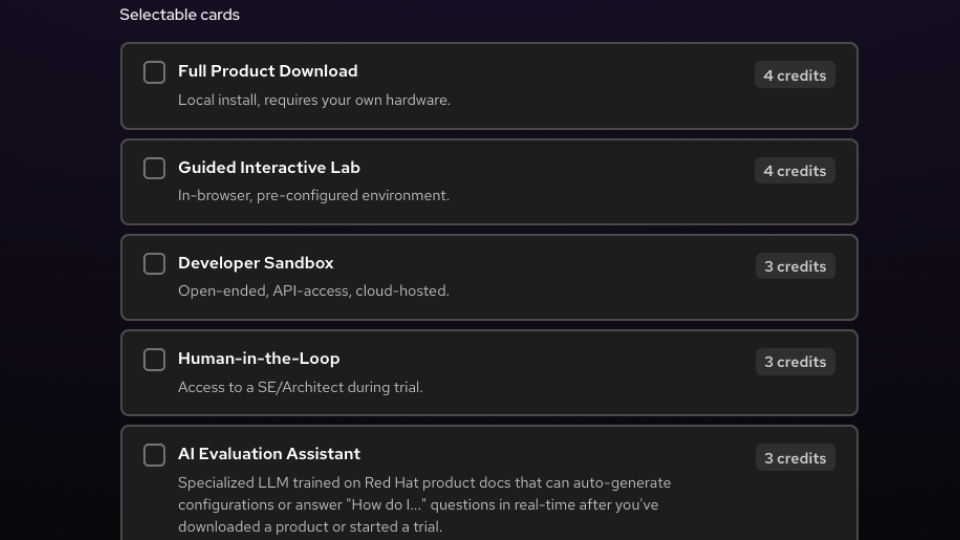
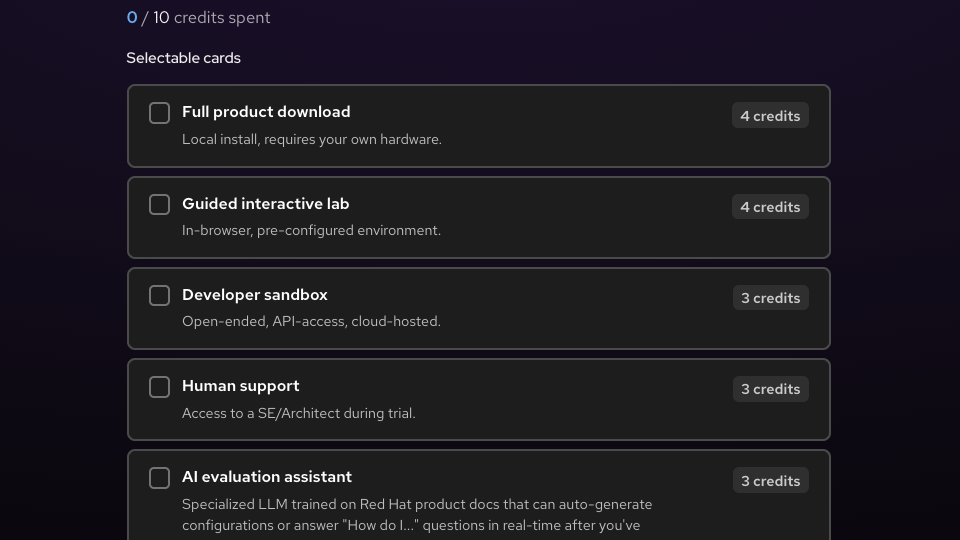
CYA: sentence-case developer tier options; update evaluation hero image
- Use Developer for individuals / Developer for businesses in study options
- Refresh product-evaluation-study-detail-hero.png

Made-with: Cursor

Changed region(s): [[0.125, 0.0, 0.9062, 1.0], [0.75, 0.5333, 0.8438, 0.563]]

diff --git a/choose-your-adventure/src/components/StudyPages.tsx b/choose-your-adventure/src/components/StudyPages.tsx
@@ -1315,7 +1315,7 @@ const getStudyPages = (focusId: string): StudyPage[] => {
         imageSrc: developerStudyTiersImage,
         imageAlt:
           'Developer program tiers overview: Developer for Individuals and Developer for Businesses compared with what you get in each.',
-        options: ['Developer for Individuals', 'Developer for Businesses']
+        options: ['Developer for individuals', 'Developer for businesses']
       },
       {
         id: 'b1-q2',
